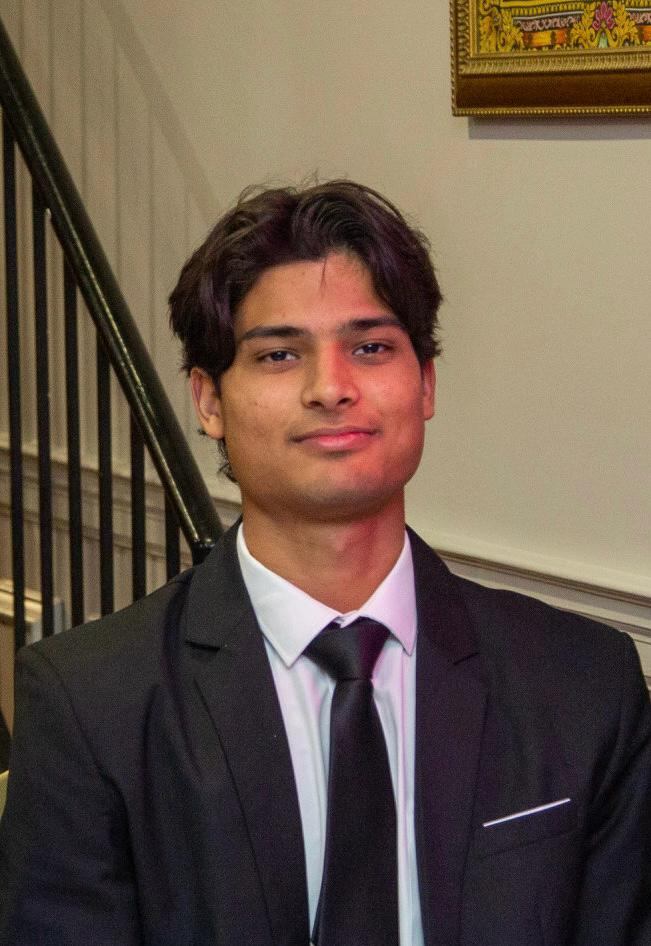
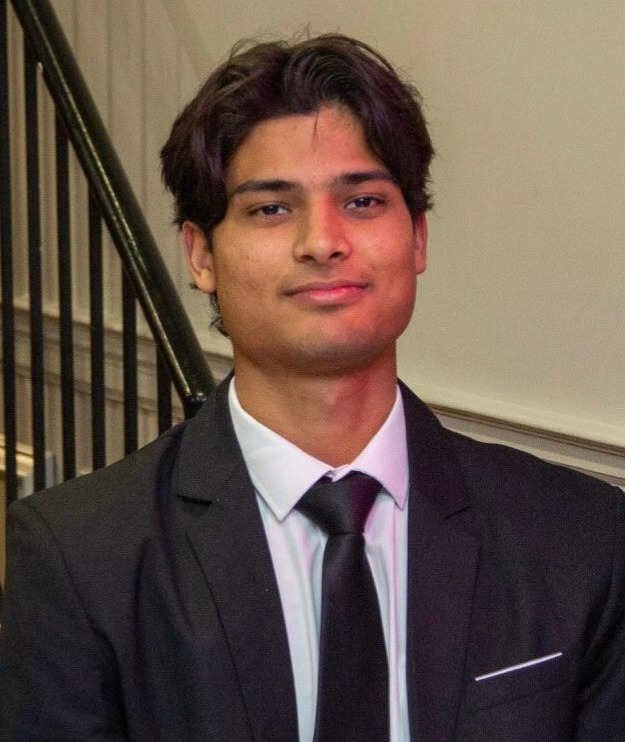
Image src final commit

diff --git a/src/components/About.jsx b/src/components/About.jsx
@@ -20,7 +20,7 @@ export default function About() {
         that, Raaz Tutoring began its journey.`
       ],
       photos: [
-        { src: '/images/Faaz_new.jpg', caption: 'Faaz Sherwani (Co-Founder)' },
+        { src: '/images/Faaz.jpg', caption: 'Faaz Sherwani (Co-Founder)' },
         { src: '/images/Rhea.jpg', caption: 'Rhea Misra (Co-Founder)' }
       ]
     },
